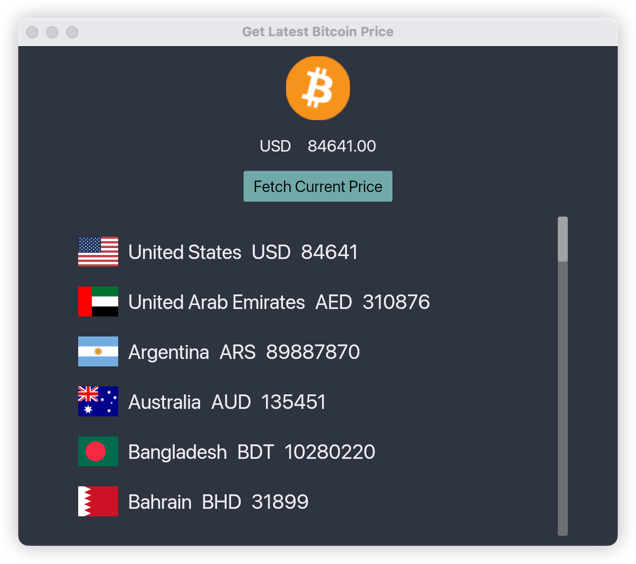
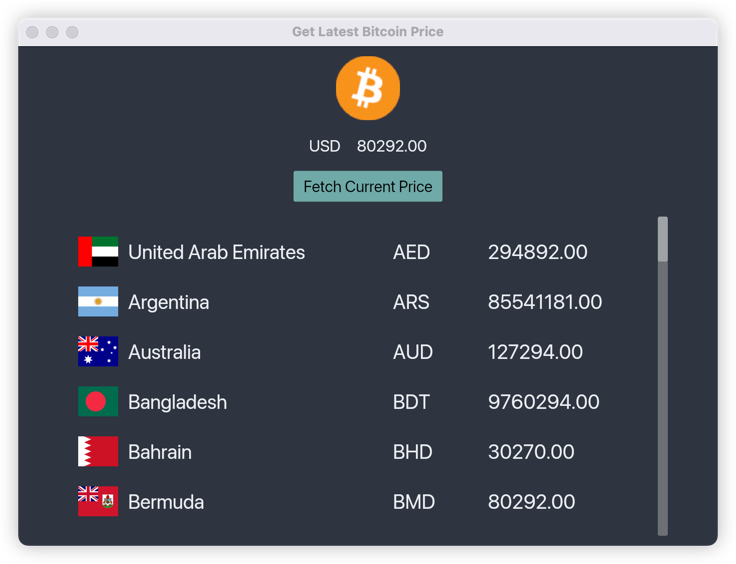
feat: update arrangement

diff --git a/src/main.rs b/src/main.rs
@@ -1,4 +1,5 @@
-use iced::window::Position;
+use iced::advanced::graphics::image::image_rs::ImageFormat;
+use iced::window::{Position, Settings};
 use iced::{window, Point, Size};
 
 mod api;
@@ -8,25 +9,24 @@ mod message;
 mod state;
 use state::App;
 
+const WINDOW_ICON: &[u8] = include_bytes!("../resources/Bitcoin.png");
+
 fn theme(_: &App) -> iced::Theme {
     iced::Theme::Nord
 }
 
 fn main() -> Result<(), iced::Error> {
     iced::application("Get Latest Bitcoin Price", App::update, App::view)
-        .window(window::Settings {
+        .window(Settings {
+            icon: window::icon::from_file_data(WINDOW_ICON, Some(ImageFormat::Png)).ok(),
             position: Position::Specific(Point::new(1000.0, 200.0)),
-            resizable: false,
-            size: Size::new(600.0, 500.0),
+            visible: true,
+            resizable: true,
+            decorations: true,
+            transparent: false,
+            size: Size::new(700.0, 500.0),
             ..Default::default()
         })
         .theme(theme)
         .run_with(App::new)
-
-    //
-    // let download_dir = "./asserts";
-    //
-    // http_utils::download_files(currencies.clone(), download_dir)
-    //     .await
-    //     .expect("TODO: panic message");
 }

diff --git a/src/state.rs b/src/state.rs
@@ -55,7 +55,7 @@ impl App {
         for country_price in &self.vs_currencies {
             let country_text = Text::new(&country_price.country.name).size(20);
             let currency_text = Text::new(country_price.country.currency.to_uppercase()).size(20);
-            let price_test = Text::new(country_price.price).size(20);
+            let price_test = Text::new(format!("{:.2}", country_price.price)).size(20);
 
             let svg_data = self
                 .svg_map
@@ -71,10 +71,10 @@ impl App {
                 .height(50)
                 .spacing(10)
                 .align_y(Alignment::Center)
-                .push(svg_image)
-                .push(country_text)
-                .push(currency_text)
-                .push(price_test);
+                .push(svg_image.width(iced::Length::Fixed(40f32)))
+                .push(country_text.width(iced::Length::FillPortion(6)))
+                .push(currency_text.width(iced::Length::FillPortion(2)))
+                .push(price_test.width(iced::Length::FillPortion(4)));
 
             column = column.push(country_row);
         }
